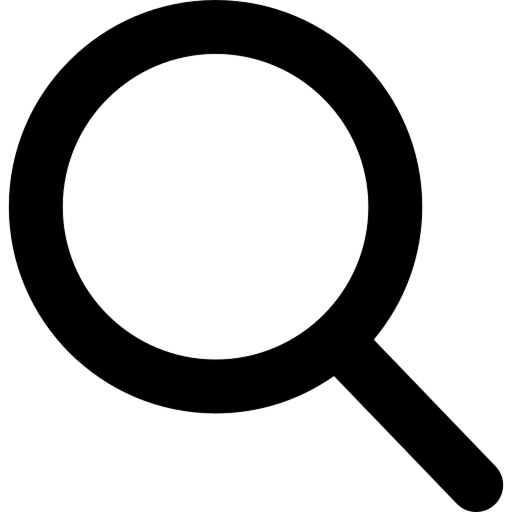
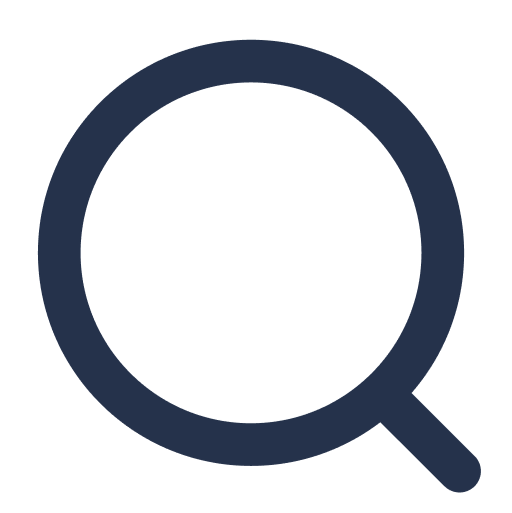
Added: some home page stuff

diff --git a/front/src/pages/Home/Home.jsx b/front/src/pages/Home/Home.jsx
@@ -1,10 +1,47 @@
 import Navbar from "../../components/layout/Navbar";
+import gps from "../../assets/location.png";
+import search from "../../assets/search.png";
 
 export const Home = () => {
   return (
     <>
       <Navbar />
-      <p>Hello, this is home page</p>
+      <main>
+        <div>
+          <h1 className="text-3xl">
+            DISCOVER HERE MORE <span className="text-[#26A4FF]">PROJECTS</span>
+          </h1>
+          <p>
+            A platform that connects passionate translators with clients who
+            need clear, professional, and multilingual communication.
+          </p>
+          <div className="flex items-center gap-5 bg-white w-fit p-4">
+            <div className="flex items-center gap-3">
+              <img src={search} alt="search icon" className="w-5 h-5" />
+              <input
+                type="text"
+                placeholder="Project title or keyword"
+                className="border-b border-[#dfdfdf] p-2"
+              />
+            </div>
+            <div className="flex items-center gap-3">
+              <img src={gps} alt="gps icon" className="w-6 h-6" />
+              <input
+                type="text"
+                placeholder=""
+                className="border-b border-[#dfdfdf] p-2"
+              />
+            </div>
+            <button className="bg-[#4640DE] text-white px-5 py-2">
+              Search my projects
+            </button>
+          </div>
+          <p>
+            Popular : Simultaneous translator, Digital Almaty, Certified
+            Translator
+          </p>
+        </div>
+      </main>
     </>
   );
 };
